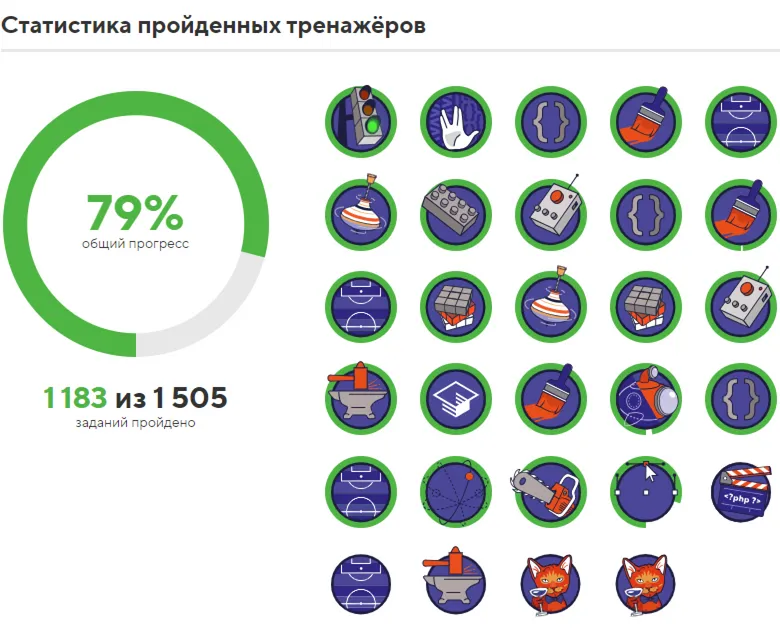
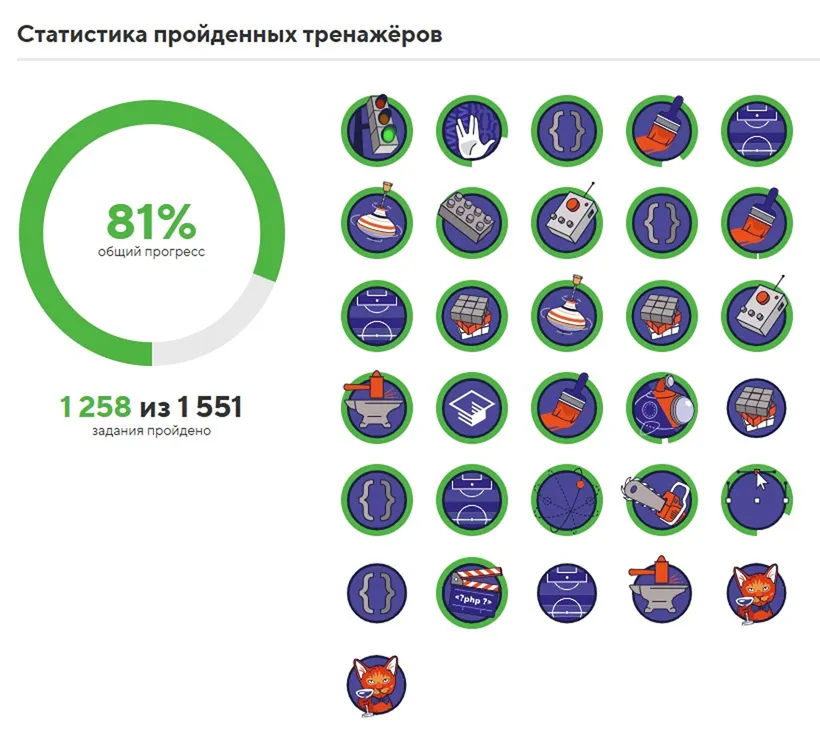
update certificate-trainings

diff --git a/source/index.html b/source/index.html
@@ -275,7 +275,7 @@
             </ul>
           </div>
           <div class="subsection__caption-wrapper container">
-            <p class="subsection__caption">А также прошла 79% тренажеров от HTML Academy</p>
+            <p class="subsection__caption">А также прошла 81% тренажеров от HTML Academy</p>
             <a class="subsection__button button button--icon-certificate"
               id="link-training"
               href="./images/certificate-trainings@1x.png"
@@ -295,12 +295,12 @@
                   <source type="image/webp"
                     srcset="./images/certificate-trainings@1x.webp 1x,
                             ./images/certificate-trainings@2x.webp 2x"
-                    width="780" height="633">
+                    width="820" height="740">
                   <img class="modal__picture" loading="lazy"
                     src="./images/certificate-trainings@1x.png"
-                    srcset="./images/certificate-trainings@1x.png 1x,
-                            ./images/certificate-trainings@2x.png 2x"
-                    width="780" height="633"
+                    srcset="./images/certificate-trainings@1x.jpg 1x,
+                            ./images/certificate-trainings@2x.jpg 2x"
+                    width="820" height="740"
                     alt="Скриншот из личного кабинеты Екатерины Евтуховой на сайте htmlacademy.ru, где показана статистика прохождения учебных тренажеров: пройдено 1183 из 1505">
                 </picture>
               </div>
